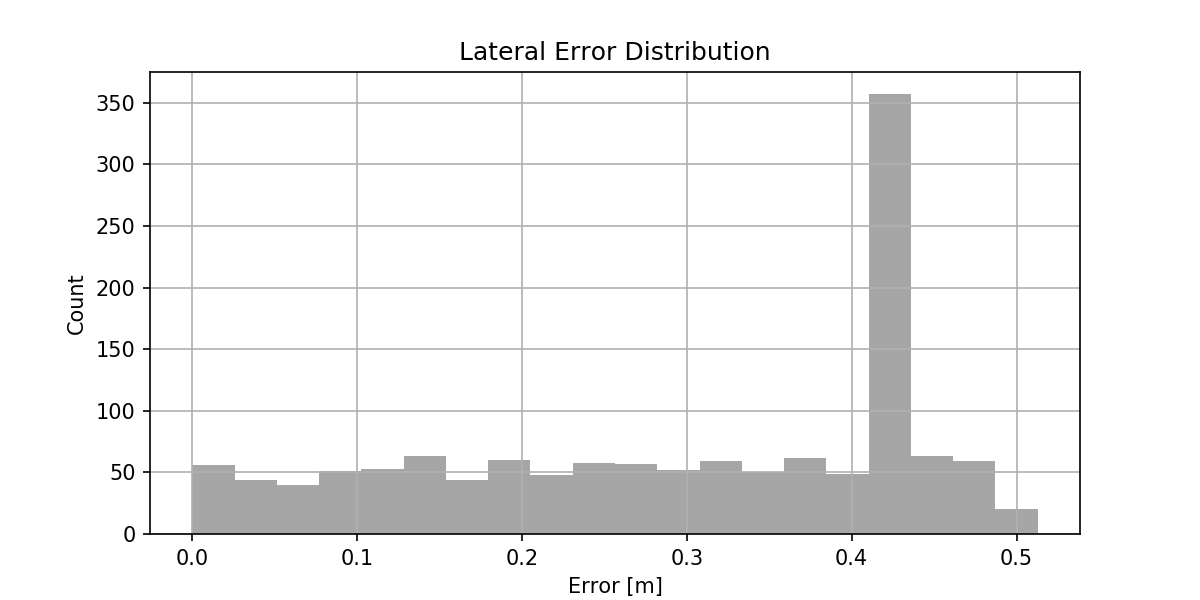
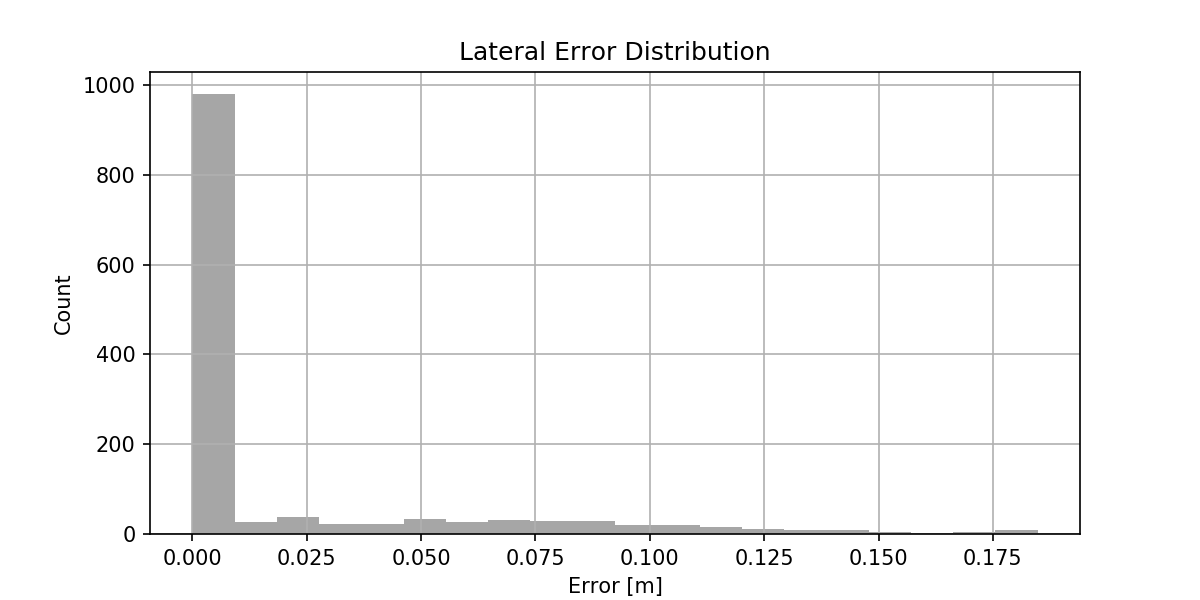
[83]插值消除横向误差震荡

diff --git a/data_process/evaluate_tracking_incert.py b/data_process/evaluate_tracking_incert.py
@@ -1,0 +1,295 @@
+import os
+import pandas as pd
+import numpy as np
+import matplotlib.pyplot as plt
+from scipy.spatial import KDTree
+
+# ==========================================
+# 新增: 路径插值函数
+# ==========================================
+def interpolate_path(df, step_size=0.01):
+    """
+    对路径进行线性插值，使其更加密集
+    :param df: 原始路径 DataFrame
+    :param step_size: 插值间隔 (米), 默认 1cm
+    :return: 加密后的 DataFrame
+    """
+    # 1. 计算原始路径的累积距离 (s)
+    x = df['x'].values
+    y = df['y'].values
+    # 计算相邻点距离
+    diffs = np.sqrt(np.diff(x)**2 + np.diff(y)**2)
+    # 累积距离 (第一个点是0)
+    dist_cum = np.cumsum(np.append(0, diffs))
+    
+    # 2. 生成新的密集距离序列
+    total_dist = dist_cum[-1]
+    # 生成从0到总长度，步长为 step_size 的数组
+    dist_dense = np.arange(0, total_dist, step_size)
+    
+    # 3. 插值
+    df_dense = pd.DataFrame()
+    
+    # 线性插值 x, y, z, linear_v
+    df_dense['x'] = np.interp(dist_dense, dist_cum, df['x'])
+    df_dense['y'] = np.interp(dist_dense, dist_cum, df['y'])
+    df_dense['z'] = np.interp(dist_dense, dist_cum, df['z'])
+    df_dense['target_linear_v'] = np.interp(dist_dense, dist_cum, df['target_linear_v'])
+    
+    # 角度插值需要特殊处理 (解缠绕 -> 插值 -> 缠绕)
+    yaw_unwrapped = np.unwrap(df['yaw'].values)
+    yaw_dense = np.interp(dist_dense, dist_cum, yaw_unwrapped)
+    # 归一化回 -pi 到 pi
+    df_dense['yaw'] = (yaw_dense + np.pi) % (2 * np.pi) - np.pi
+    
+    return df_dense
+
+def evaluate_path_tracking(gt_file, wp_file, save_dir=None):
+    # ---------------------------------------------------------
+    # 1. 读取数据
+    # ---------------------------------------------------------
+    print(f"正在读取文件:\n - GT (真实轨迹): {gt_file}\n - WP (参考路径): {wp_file}")
+    
+    try:
+        df_gt = pd.read_csv(gt_file, sep=r'\s+', comment='#', 
+                            names=['stamp', 'x', 'y', 'z', 'yaw', 'vx', 'vy', 'vz', 'angular_v'])
+        # 计算合成速度
+        df_gt['linear_v'] = np.sqrt(df_gt['vx']**2 + df_gt['vy']**2 + df_gt['vz']**2)
+    except Exception as e:
+        print(f"读取真实路径文件出错: {e}")
+        return
+
+    try:
+        df_wp_raw = pd.read_csv(wp_file, sep=r'\s+', comment='#', 
+                            names=['id', 'x', 'y', 'z', 'yaw', 'target_linear_v'])
+        
+        # === 核心修改: 对参考路径进行插值 ===
+        print(f"原始参考路径点数: {len(df_wp_raw)} (平均间距约1m)")
+        print("正在进行路径插值加密 (step=0.01m)...")
+        df_wp = interpolate_path(df_wp_raw, step_size=0.01)
+        print(f"加密后参考路径点数: {len(df_wp)}")
+        
+    except Exception as e:
+        print(f"读取规划路径文件出错: {e}")
+        return
+
+    if save_dir is not None:
+        os.makedirs(save_dir, exist_ok=True)
+
+    # ---------------------------------------------------------
+    # 2. 计算误差 (现在使用的是加密后的 df_wp)
+    # ---------------------------------------------------------
+    wp_xy = df_wp[['x', 'y']].values
+    tree = KDTree(wp_xy)
+
+    lateral_errors = []
+    heading_errors = []
+    velocity_errors = []
+    matched_ref_vels = []
+    matched_wp_indices = []
+
+    for index, row in df_gt.iterrows():
+        gt_x = row['x']
+        gt_y = row['y']
+        gt_yaw = row['yaw']
+        gt_v = row['linear_v']
+
+        # 查询最近点 (因为现在点很密，点到点的距离 近似等于 点到线的距离)
+        dist, idx = tree.query([gt_x, gt_y])
+
+        lateral_errors.append(dist)
+        matched_wp_indices.append(idx)
+
+        ref_yaw = df_wp.iloc[idx]['yaw']
+        yaw_err = gt_yaw - ref_yaw
+        yaw_err = (yaw_err + np.pi) % (2 * np.pi) - np.pi  
+        heading_errors.append(yaw_err)
+
+        ref_v = df_wp.iloc[idx]['target_linear_v']
+        vel_err = gt_v - ref_v
+        
+        velocity_errors.append(vel_err)
+        matched_ref_vels.append(ref_v)
+
+    df_gt['lateral_error'] = lateral_errors
+    df_gt['heading_error'] = heading_errors
+    df_gt['velocity_error'] = velocity_errors
+    df_gt['ref_velocity'] = matched_ref_vels
+    df_gt['matched_idx'] = matched_wp_indices
+
+    lateral_errors = np.array(lateral_errors)
+    heading_errors = np.array(heading_errors)
+    velocity_errors = np.array(velocity_errors)
+    matched_wp_indices = np.array(matched_wp_indices)
+
+    # 统计指标
+    rmse_lat = np.sqrt(np.mean(np.square(lateral_errors)))
+    max_lat = np.max(np.abs(lateral_errors))
+    max_error_idx = np.argmax(np.abs(lateral_errors))
+    bad_gt_point = df_gt.iloc[max_error_idx]
+
+    # ---------------------------------------------------------
+    # 5. 绘图
+    # ---------------------------------------------------------
+    wp_x = df_wp['x'].to_numpy()
+    wp_y = df_wp['y'].to_numpy()
+    gt_x = df_gt['x'].to_numpy()
+    gt_y = df_gt['y'].to_numpy()
+    gt_stamp = df_gt['stamp'].to_numpy()
+    
+    # --- 图1: 轨迹对比 ---
+    plt.figure(figsize=(10, 8))
+    # 绘制加密后的路径作为参考线
+    plt.plot(wp_x, wp_y, 'r--', label='Reference Path (Interp)', linewidth=2, alpha=0.4)
+    plt.plot(gt_x, gt_y, 'b-', label='Actual Path', linewidth=1.5, alpha=0.6)
+    plt.scatter(bad_gt_point['x'], bad_gt_point['y'], c='red', s=100, marker='*', label='Max Lat Error', zorder=10)
+    
+    # 这里的箭头绘制逻辑依然有效，但 idx 现在对应的是加密后的数组
+    target_timestamps = [5.0, 8.0, 13.0]
+    marker_colors = ['purple', 'cyan', 'magenta']
+    arrow_len = 1.5 
+    
+    for t_target, color in zip(target_timestamps, marker_colors):
+        if len(gt_stamp) > 0:
+            idx_closest = np.argmin(np.abs(gt_stamp - t_target))
+            if np.abs(gt_stamp[idx_closest] - t_target) > 2.0: continue
+
+            pt_gt = df_gt.iloc[idx_closest]
+            idx_wp = matched_wp_indices[idx_closest] # 这是在 dense 数组中的索引
+            pt_wp = df_wp.iloc[idx_wp]
+            
+            gt_yaw_rad = pt_gt['yaw']
+            gt_dx, gt_dy = arrow_len * np.cos(gt_yaw_rad), arrow_len * np.sin(gt_yaw_rad)
+            wp_yaw_rad = pt_wp['yaw']
+            wp_dx, wp_dy = arrow_len * np.cos(wp_yaw_rad), arrow_len * np.sin(wp_yaw_rad)
+            
+            plt.arrow(pt_gt['x'], pt_gt['y'], gt_dx, gt_dy, head_width=0.4, fc=color, ec=color, linewidth=2, zorder=15)
+            plt.arrow(pt_wp['x'], pt_wp['y'], wp_dx, wp_dy, head_width=0.3, fc='none', ec=color, linestyle=':', linewidth=1.5, zorder=15)
+            plt.plot([pt_gt['x'], pt_wp['x']], [pt_gt['y'], pt_wp['y']], color=color, linestyle='--', linewidth=1, zorder=14)
+            plt.text(pt_gt['x']+0.5, pt_gt['y'], f"{t_target}s", color=color, fontsize=10, fontweight='bold')
+
+    plt.title("Trajectory & Heading Visualization")
+    plt.xlabel("X [m]")
+    plt.ylabel("Y [m]")
+    plt.legend()
+    plt.axis('equal')
+    plt.grid(True)
+    if save_dir: plt.savefig(os.path.join(save_dir, "1_trajectory.png"), dpi=150)
+    plt.close()
+
+    # --- 图2: 横向误差 ---
+    plt.figure(figsize=(8, 4))
+    plt.plot(gt_stamp, np.abs(lateral_errors), 'g-', label='Lateral Error')
+    plt.axhline(y=rmse_lat, color='r', linestyle=':', label=f'RMSE: {rmse_lat:.3f}m')
+    plt.title(f"Lateral Error (Max: {max_lat:.3f}m)")
+    plt.xlabel("Timestamp [s]")
+    plt.ylabel("Error [m]")
+    plt.legend()
+    plt.grid(True)
+    if save_dir: plt.savefig(os.path.join(save_dir, "2_lateral_error.png"), dpi=150)
+    plt.close()
+
+    # --- 图3: 航向误差 ---
+    plt.figure(figsize=(8, 4))
+    plt.plot(gt_stamp, np.degrees(heading_errors), 'm-')
+    plt.title("Heading Error over Time [deg]")
+    plt.xlabel("Timestamp [s]")
+    plt.ylabel("Error [deg]")
+    plt.grid(True)
+    if save_dir: plt.savefig(os.path.join(save_dir, "3_heading_error.png"), dpi=150)
+    plt.close()
+
+    # --- 图4: 速度追踪 ---
+    plt.figure(figsize=(8, 6))
+    plt.subplot(2, 1, 1)
+    plt.plot(gt_stamp, df_gt['ref_velocity'].to_numpy(), 'r--', label='Target Vel', linewidth=2)
+    plt.plot(gt_stamp, df_gt['linear_v'].to_numpy(), 'b-', label='Actual Vel', linewidth=1.5, alpha=0.8)
+    plt.title("Velocity Tracking Performance")
+    plt.ylabel("Velocity [m/s]")
+    plt.legend()
+    plt.grid(True)
+    plt.subplot(2, 1, 2)
+    plt.plot(gt_stamp, velocity_errors, 'k-', label='Vel Error')
+    plt.axhline(0, color='gray', linestyle='--')
+    plt.ylabel("Error [m/s]")
+    plt.xlabel("Timestamp [s]")
+    plt.grid(True)
+    plt.tight_layout()
+    if save_dir: plt.savefig(os.path.join(save_dir, "4_velocity_tracking.png"), dpi=150)
+    plt.close()
+
+    # --- 图5: 直方图 ---
+    plt.figure(figsize=(8, 4))
+    plt.hist(lateral_errors, bins=20, color='gray', alpha=0.7)
+    plt.title("Lateral Error Distribution")
+    plt.xlabel("Error [m]")
+    plt.ylabel("Count")
+    plt.grid(True)
+    if save_dir: plt.savefig(os.path.join(save_dir, "5_lateral_error_hist.png"), dpi=150)
+    plt.close()
+
+    # ---------------------------------------------------------
+    # 6. 新增: 0-5s 路径密度分析 (为了对比，我们这里同时显示 原始稀疏点 和 真实轨迹)
+    # ---------------------------------------------------------
+    print("\n--- 正在生成 0-5s 路径密度分析图 ---")
+    
+    mask_time = (gt_stamp >= 0.0) & (gt_stamp <= 5.0)
+    df_gt_subset = df_gt[mask_time].copy()
+    
+    if len(df_gt_subset) == 0:
+        print("警告: 0-5s 内没有找到真实轨迹数据，跳过图6绘制。")
+    else:
+        # 注意: 这里的 matched_idx 已经是 dense 的索引了，不能直接用来切片 df_wp_raw
+        # 为了图6的可视化，我们通过坐标范围来找 df_wp_raw 中的点，而不是通过索引
+        
+        gt_subset_x = df_gt_subset['x'].values
+        gt_subset_y = df_gt_subset['y'].values
+        
+        min_x, max_x = np.min(gt_subset_x), np.max(gt_subset_x)
+        min_y, max_y = np.min(gt_subset_y), np.max(gt_subset_y)
+        
+        # 扩大一点搜索范围
+        margin = 2.0
+        wp_raw_subset = df_wp_raw[
+            (df_wp_raw['x'] > min_x - margin) & (df_wp_raw['x'] < max_x + margin) &
+            (df_wp_raw['y'] > min_y - margin) & (df_wp_raw['y'] < max_y + margin)
+        ].copy()
+
+        # 绘图
+        wp_sub_x = wp_raw_subset['x'].to_numpy()
+        wp_sub_y = wp_raw_subset['y'].to_numpy()
+        gt_sub_x = df_gt_subset['x'].to_numpy()
+        gt_sub_y = df_gt_subset['y'].to_numpy()
+
+        plt.figure(figsize=(12, 10))
+        
+        # 画原始稀疏点 (红色 X)
+        plt.scatter(wp_sub_x, wp_sub_y, c='red', marker='x', s=150, label='Original Sparse WP (1m gap)', zorder=5)
+        
+        # 画插值后的密集路径 (灰色细线)
+        # 同样为了性能，只画这一段区域的插值线
+        df_dense_subset = df_wp[
+             (df_wp['x'] > min_x - margin) & (df_wp['x'] < max_x + margin)
+        ]
+        plt.plot(df_dense_subset['x'].to_numpy(), df_dense_subset['y'].to_numpy(), 'k-', alpha=0.3, label='Interpolated Path (Used for Error Calc)')
+
+        # 画真实轨迹
+        plt.scatter(gt_sub_x, gt_sub_y, c='blue', marker='.', s=20, label='GT Path', zorder=6)
+        
+        plt.title(f"Impact of Upsampling on Error Calculation (0-5s)")
+        plt.xlabel("X [m]")
+        plt.ylabel("Y [m]")
+        plt.legend()
+        plt.axis('equal')
+        plt.grid(True)
+        
+        if save_dir: plt.savefig(os.path.join(save_dir, "6_density_check_improved.png"), dpi=150)
+        plt.close()
+
+    print(f"所有图片已保存至: {save_dir}")
+
+if __name__ == "__main__":
+    gt_file = "data_process/v_10/pure_v.txt" 
+    wp_file = "data_process/global_path_v_10.txt"
+    save_dir = "result/v_10/pure_v"
+    evaluate_path_tracking(gt_file, wp_file, save_dir)
